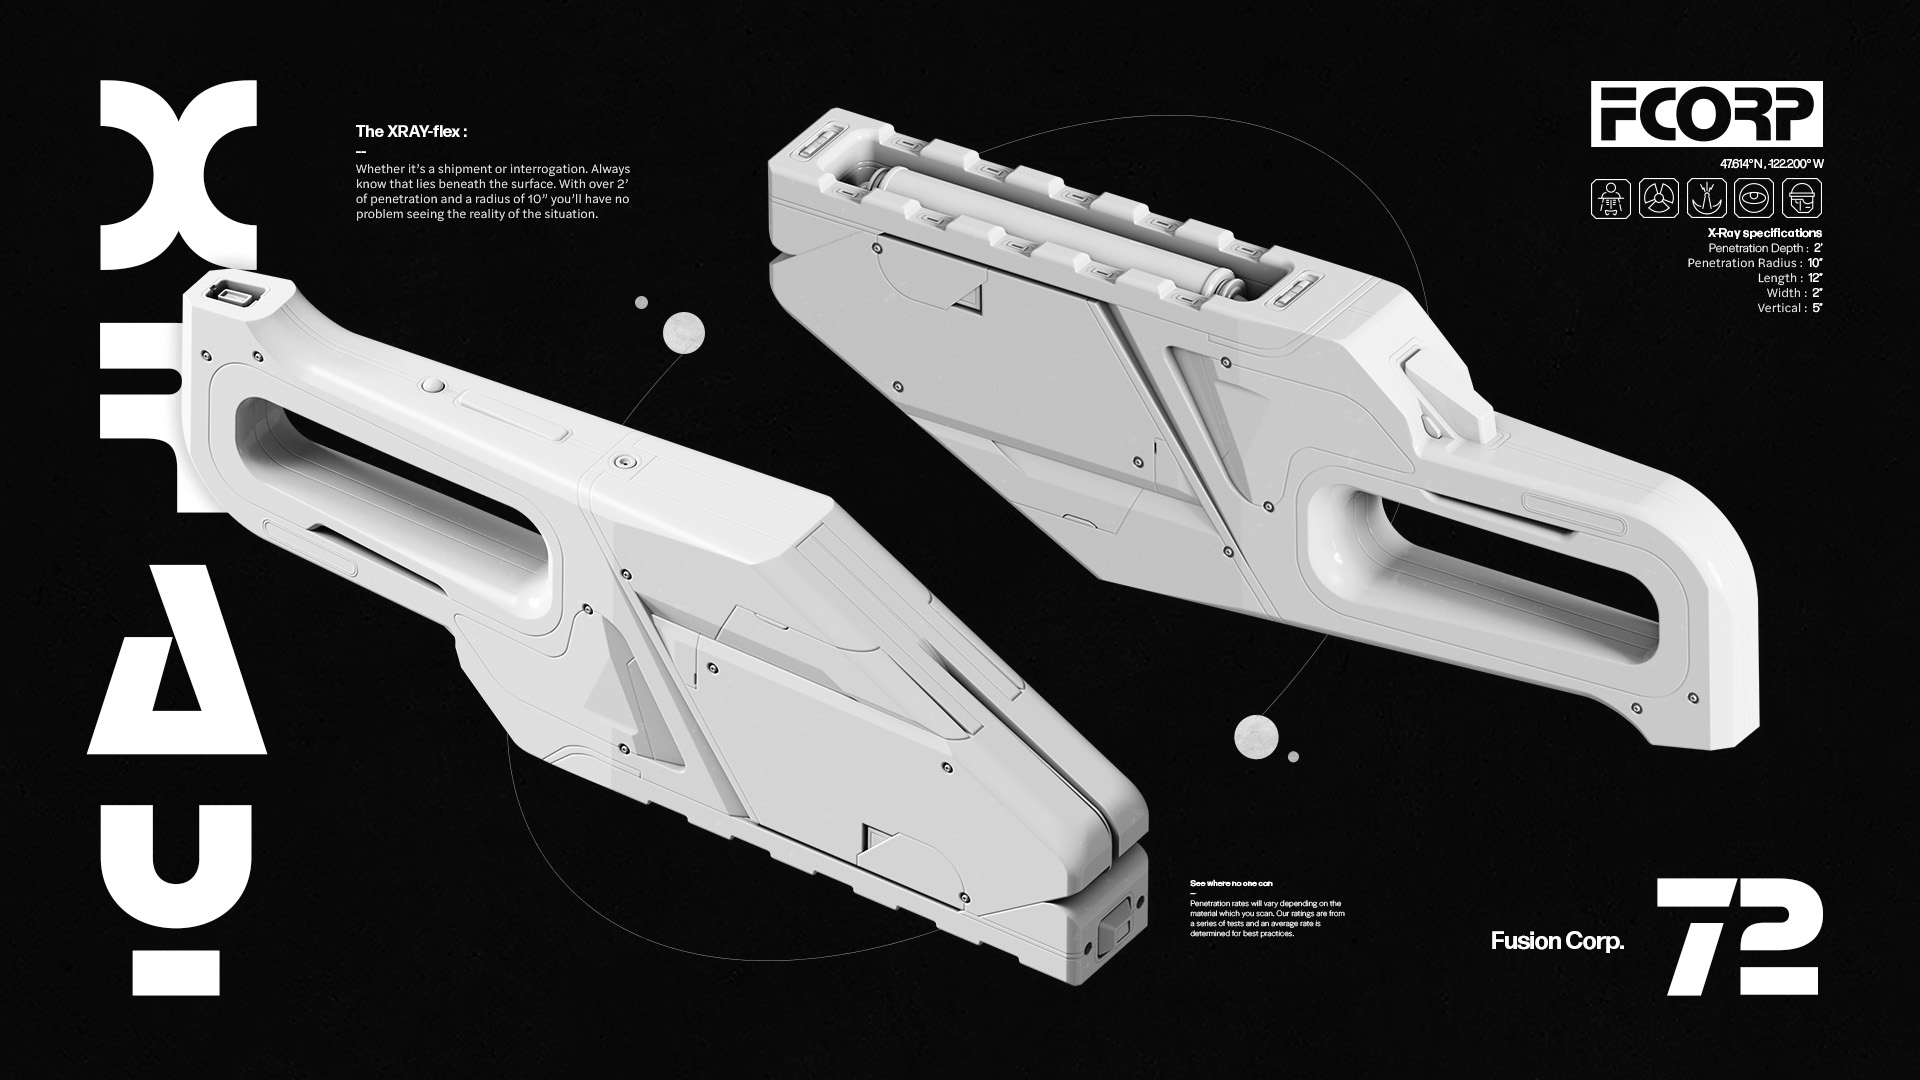
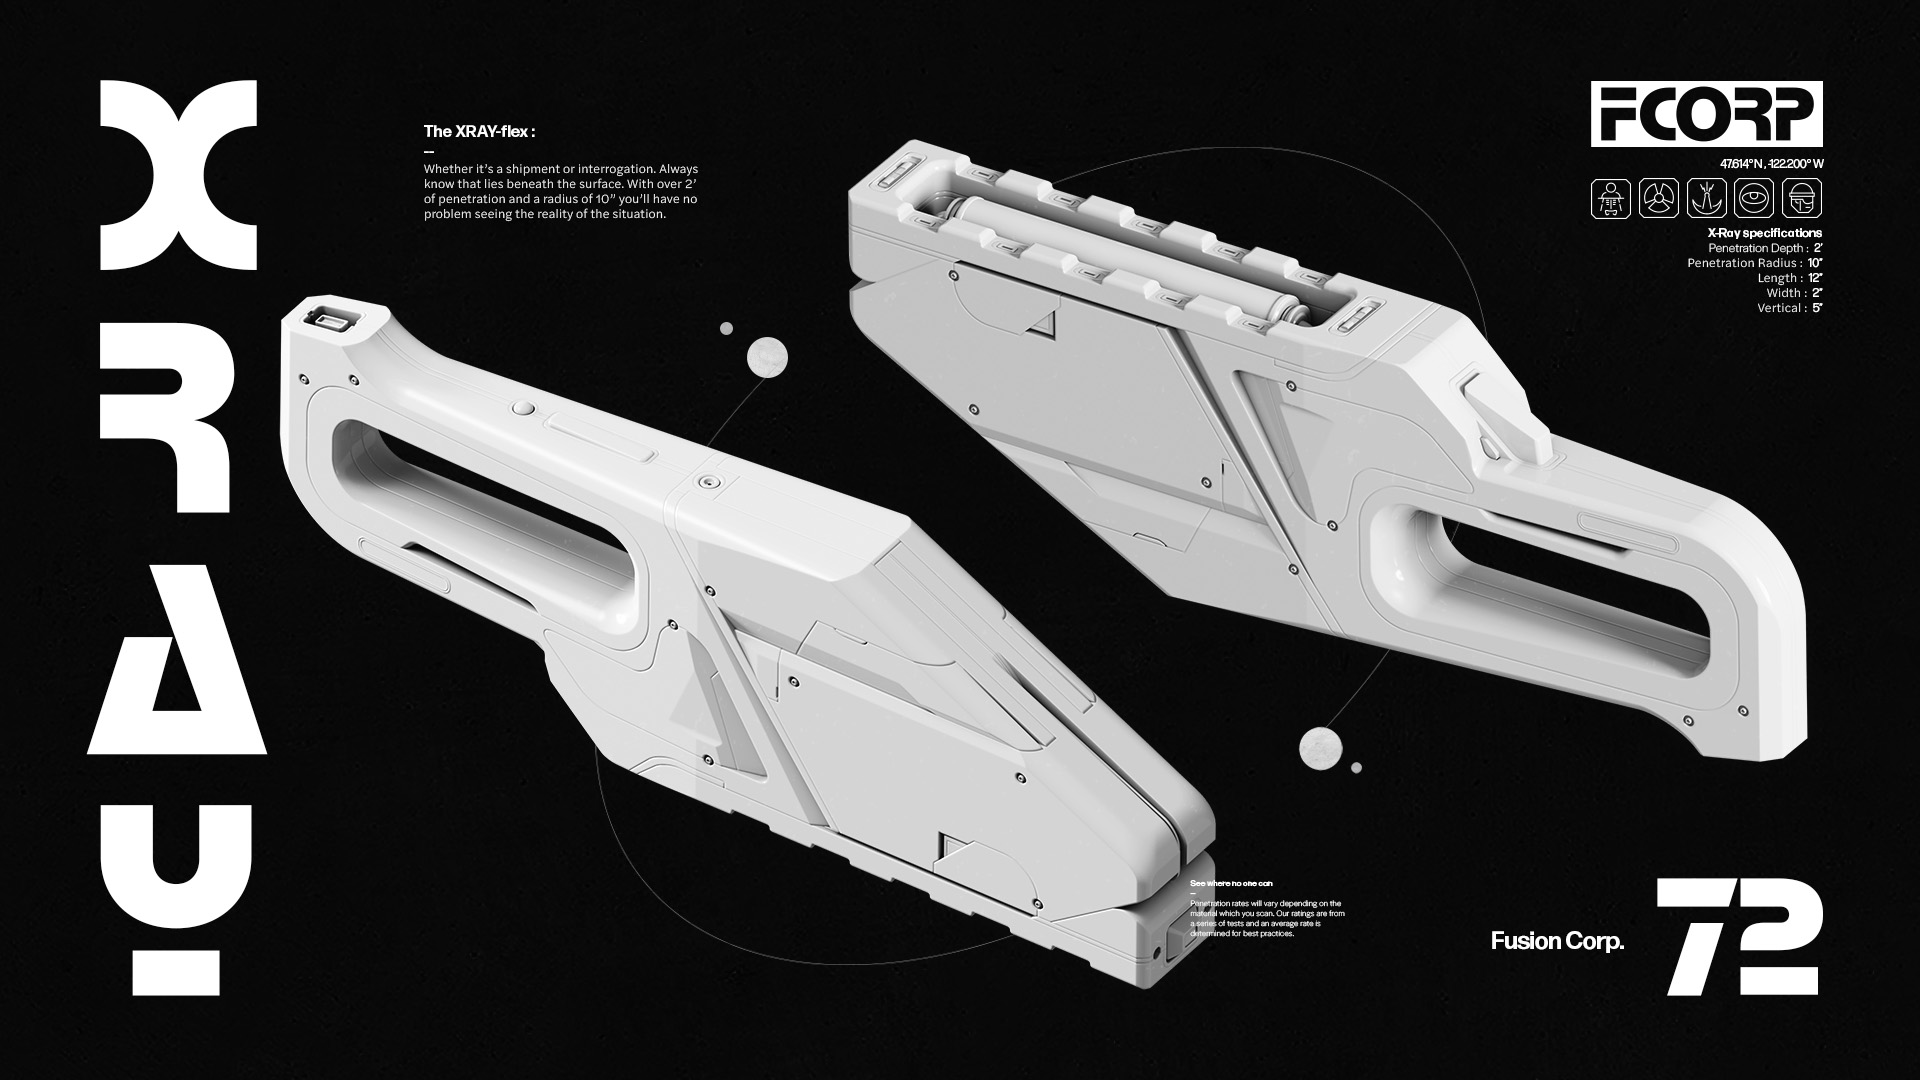
1234

Changed region(s): [[0.1875, 0.0917, 0.9688, 0.7028], [0.0938, 0.2444, 0.7188, 0.9167], [0.2812, 0.3667, 0.375, 0.4278]]

diff --git a/device.html b/device.html
@@ -41,7 +41,7 @@
                 <div id="halfie"><img src="images/device/dp1.jpg" id="logotexth"></div>
                 <div id="halfie"><img src="images/device/dp2.jpg" id="logotexth"></div>
                 <div id="fullbar"></div>
-                <img src="images/device/d7.jpg" id="logotext"> 
+                <img src="images/device/d6.jpg" id="logotext"> 
                 <div id="fullbar"></div>
                 <img src="images/device/d9.jpg" id="logotext"> 
                 <div id="fullbar"></div>
